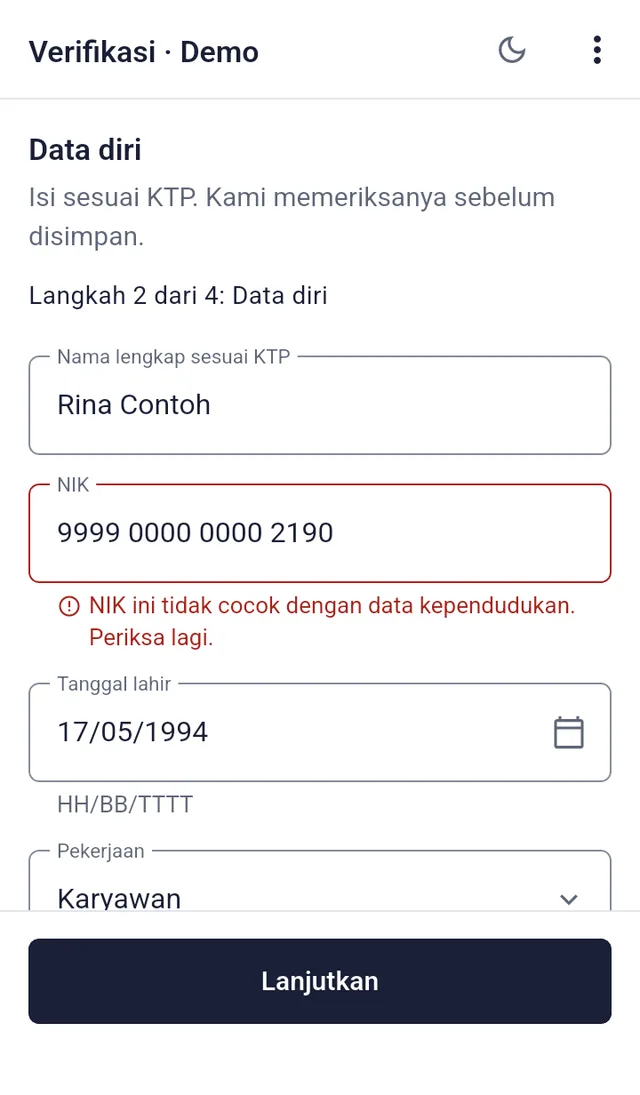
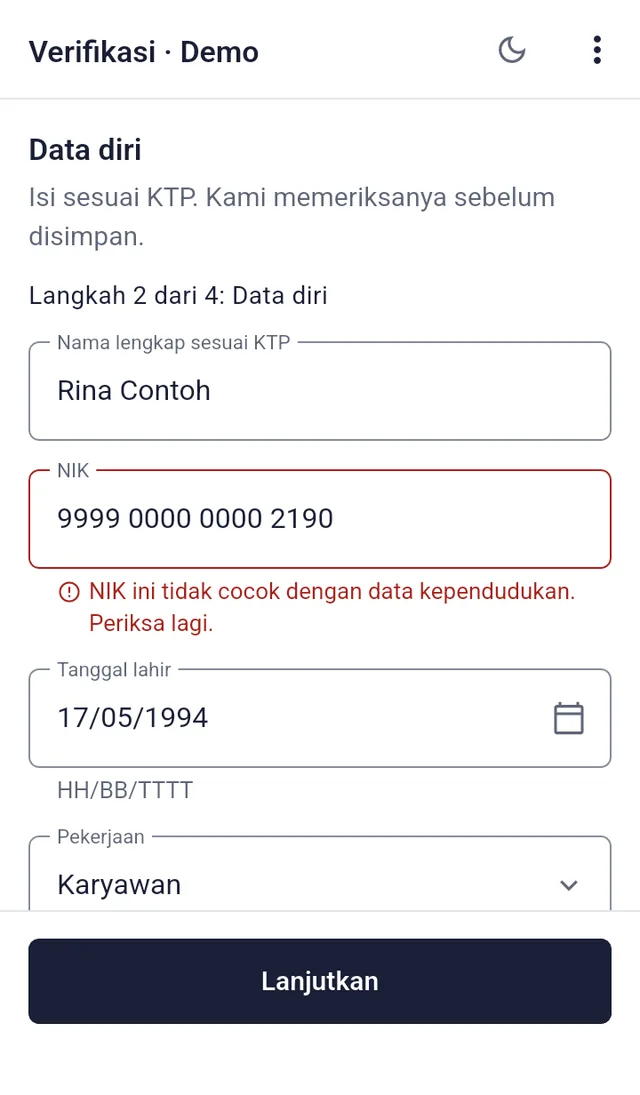
fix(view-frame): keep a pinned header's first field label visible (#228)
The scroll viewport clipped the floating label of the first field under a
pinned header. Clip to the viewport plus field headroom instead, and drop
the KYC block's host padding workaround.

diff --git a/lib/src/foundation/view_frame.dart b/lib/src/foundation/view_frame.dart
@@ -188,7 +188,20 @@ class ViewFrame extends StatelessWidget {
                   ],
                 ),
               )
-            : SingleChildScrollView(padding: padding, child: content);
+            : head == null
+            ? SingleChildScrollView(padding: padding, child: content)
+            // The body starts flush with the scroll edge under a pinned
+            // header, so a filled field's floating label or a focus ring on
+            // the first control would be cut off at rest (#228). Let the
+            // body paint into the header's own bottom padding instead.
+            : ClipRect(
+                clipper: _HeadroomClipper(space),
+                child: SingleChildScrollView(
+                  padding: padding,
+                  clipBehavior: Clip.none,
+                  child: content,
+                ),
+              );
         return Column(
           crossAxisAlignment: CrossAxisAlignment.stretch,
           children: [
@@ -200,6 +213,22 @@ class ViewFrame extends StatelessWidget {
       },
     );
   }
+}
+
+/// Clips to the box, extended upward by [headroom].
+class _HeadroomClipper extends CustomClipper<Rect> {
+  const _HeadroomClipper(this.headroom);
+  final double headroom;
+
+  @override
+  Rect getClip(Size size) =>
+      Rect.fromLTRB(0, -headroom, size.width, size.height);
+
+  @override
+  Rect getApproximateClipRect(Size size) => getClip(size);
+
+  @override
+  bool shouldReclip(_HeadroomClipper old) => old.headroom != headroom;
 }
 
 /// Internal: a header navigation action drawn as a link with a › glyph

diff --git a/test/onboarding_view_test.dart b/test/onboarding_view_test.dart
@@ -105,4 +105,45 @@ void main() {
     );
     expect(accordion.top - row.bottom, 16);
   });
+  testWidgets('a filled first field shows its whole floating label at rest '
+      '(#228)', (t) async {
+    await setSurface(t, const Size(360, 640));
+    await t.pumpWidget(
+      contentHost(
+        const SizedBox(
+          height: 640,
+          child: PaymentOnboardingView(
+            title: 'Your details',
+            tasks: tasks,
+            // A long form: the body scrolls, so its viewport clips.
+            child: Column(
+              children: [
+                PaymentTextField(label: 'Full name', initialValue: 'Rina'),
+                SizedBox(height: 1000),
+              ],
+            ),
+          ),
+        ),
+      ),
+    );
+    await t.pumpAndSettle();
+    final label = t.renderObject<RenderBox>(find.text('Full name'));
+    final rect = label.localToGlobal(Offset.zero) & label.size;
+    // The label floats above the field's box, which starts the body.
+    final field = t.getRect(find.byType(InputDecorator));
+    expect(rect.top, lessThan(field.top));
+    RenderObject child = label;
+    for (var parent = label.parent; parent != null; parent = parent.parent) {
+      final clip = parent.describeApproximatePaintClip(child);
+      if (clip != null && parent is RenderBox) {
+        final shown = clip.shift(parent.localToGlobal(Offset.zero));
+        expect(
+          shown.intersect(rect),
+          rect,
+          reason: 'clipped by ${parent.runtimeType}',
+        );
+      }
+      child = parent;
+    }
+  });
 }

diff --git a/example/lib/compositions/kyc_onboarding_block.dart b/example/lib/compositions/kyc_onboarding_block.dart
@@ -109,14 +109,7 @@ class KycOnboardingBlock extends StatelessWidget {
             busyLabel: 'Memeriksa data…',
             onPressed: formController.submit,
           ),
-          // The step swap clips to its bounds, and a filled first field
-          // floats its label above its box; keep that label inside.
-          child: Padding(
-            padding: EdgeInsets.only(
-              top: PaymentTheme.of(context).space(PaymentSpace.related),
-            ),
-            child: form!,
-          ),
+          child: form!,
         ),
         // The form keeps its state across host answers, so edits survive.
         child: IdentityForm(

diff --git a/lib/src/foundation/payment_motion.dart b/lib/src/foundation/payment_motion.dart
@@ -114,7 +114,6 @@ class PaymentMotion {
   ///
   /// It never scales: scaling a full-width slab moves its edges and reads as
   /// a lurch. Use [fadeScale] for compact elements only. The leaving child
-  /// takes no taps ([topLayout]). Painting is clipped to the eased height
   /// takes no taps and can't hold focus ([topLayout]). Painting is clipped
   /// to the eased height only while it grows; at rest nothing is clipped,
   /// focus rings included. If reduced motion turns on mid-swap, the swap
